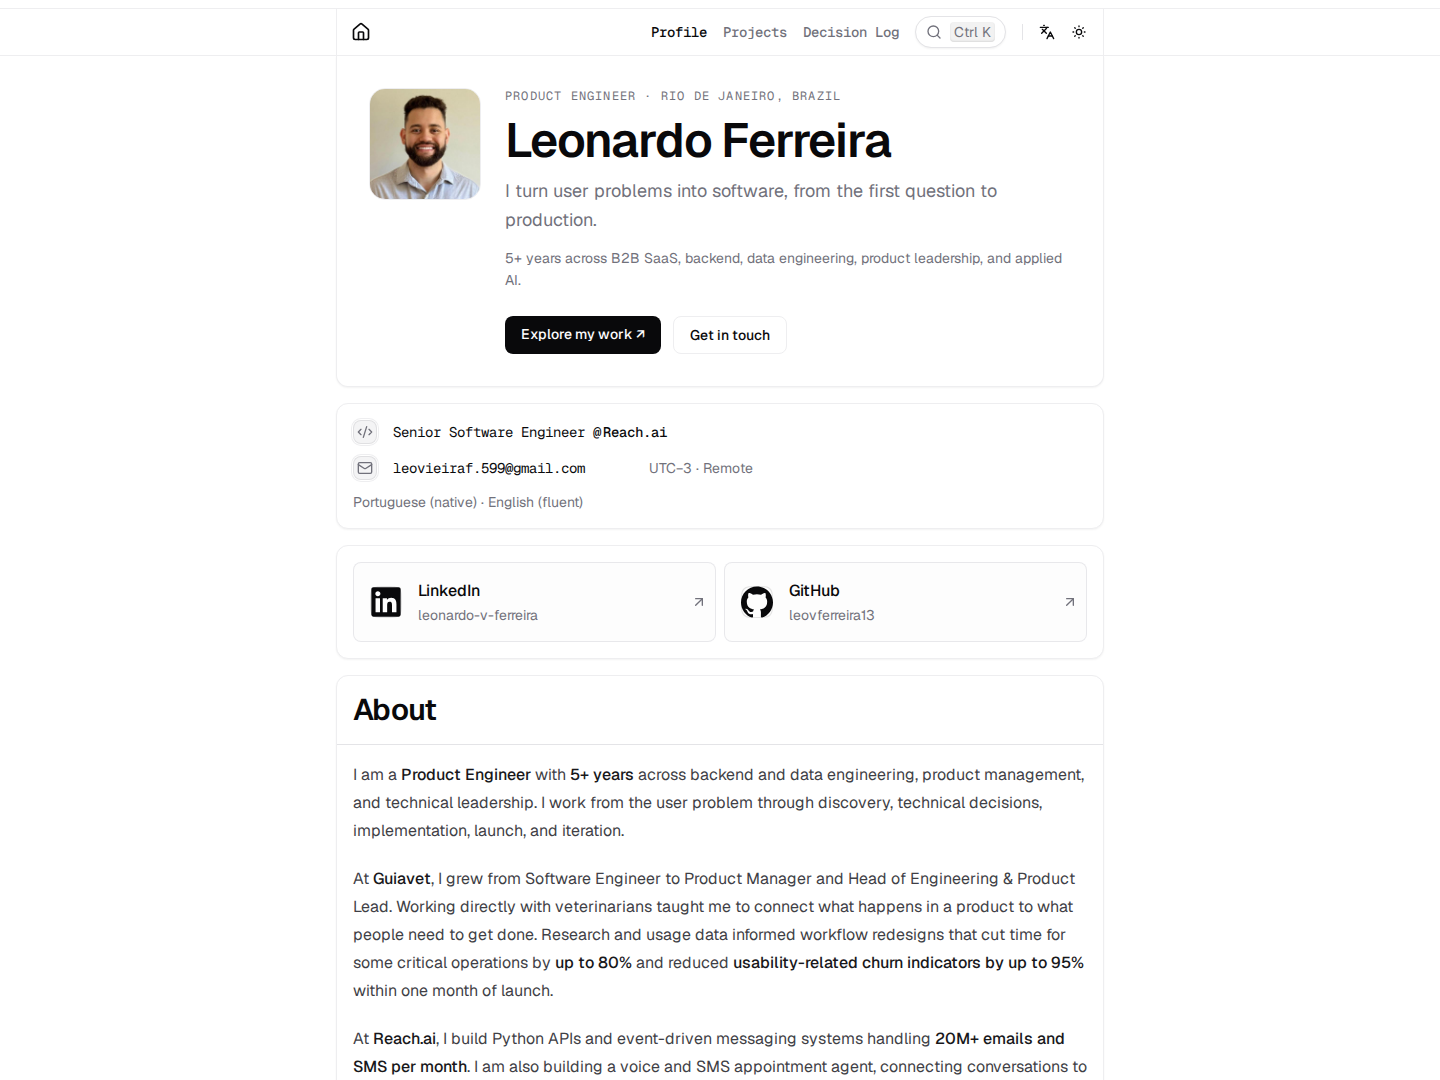
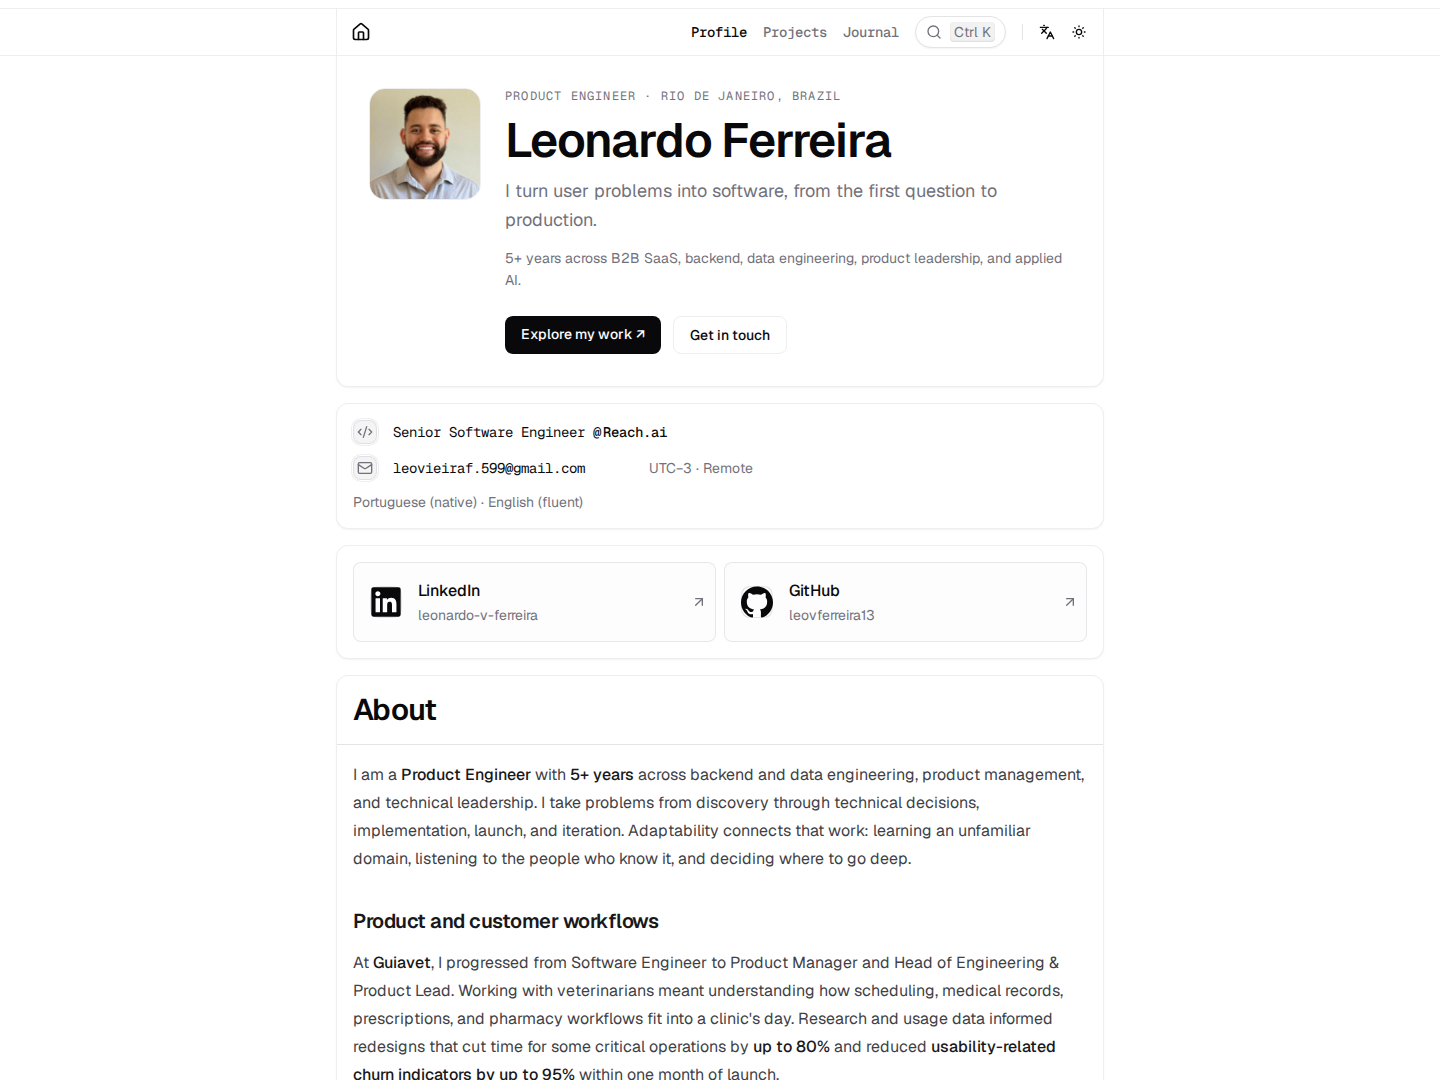
feat(portfolio): expand professional narrative and refine access controls

Changed region(s): [[0.25, 0.7333, 0.75, 1.0], [0.4688, 0.0, 0.5312, 0.0306]]

diff --git a/src/features/portfolio/data/user.ts b/src/features/portfolio/data/user.ts
@@ -23,13 +23,25 @@ export const USER: User = {
     },
   ],
   about: `
-I am a **Product Engineer** with **5+ years** across backend and data engineering, product management, and technical leadership. I work from the user problem through discovery, technical decisions, implementation, launch, and iteration.
+I am a **Product Engineer** with **5+ years** across backend and data engineering, product management, and technical leadership. I take problems from discovery through technical decisions, implementation, launch, and iteration. Adaptability connects that work: learning an unfamiliar domain, listening to the people who know it, and deciding where to go deep.
 
-At **Guiavet**, I grew from Software Engineer to Product Manager and Head of Engineering & Product Lead. Working directly with veterinarians taught me to connect what happens in a product to what people need to get done. Research and usage data informed workflow redesigns that cut time for some critical operations by **up to 80%** and reduced **usability-related churn indicators by up to 95%** within one month of launch.
+### Product and customer workflows
 
-At **Reach.ai**, I build Python APIs and event-driven messaging systems handling **20M+ emails and SMS per month**. I am also building a voice and SMS appointment agent, connecting conversations to scheduling APIs with retrieval, tool orchestration, behavioral evaluations, and observability.
+At **Guiavet**, I progressed from Software Engineer to Product Manager and Head of Engineering & Product Lead. Working with veterinarians meant understanding how scheduling, medical records, prescriptions, and pharmacy workflows fit into a clinic's day. Research and usage data informed redesigns that cut time for some critical operations by **up to 80%** and reduced **usability-related churn indicators by up to 95%** within one month of launch.
 
-**Adaptability is the thread through my work.** I enjoy learning an unfamiliar domain, understanding its constraints, and deciding what is useful to build. I bring strong backend foundations and product judgment to that process, including when the right tool is applied AI.
+I also led product expansion beyond solo practitioners to veterinarians serving other clinics and to clinics themselves, adapting packaging and workflows to each B2B segment. This combination of customer understanding, technical scoping, integrations, and end-to-end ownership is what draws me to **Forward Deployed Engineering**: working through an unfamiliar context until the solution fits the people using it.
+
+### Backend systems that support the product
+
+At **Reach.ai**, I engineer Python/FastAPI APIs and event-driven messaging flows for a multi-tenant platform processing **20M+ emails and SMS per month**, with **99.9% delivery reliability**. Queue processing improvements and Redis-backed idempotency supported **50x peak throughput capacity** while reducing duplicate-send risk. At Guiavet, I worked across Django domain modeling, PostgreSQL, asynchronous workers, and Vue.js, connecting architecture choices to daily workflows.
+
+My data engineering foundation comes from **QDOIS**, where I integrated databases, APIs, and SFTP sources through Azure Data Factory and Databricks/PySpark. That experience still shapes how I think about data models, system boundaries, and the information a product needs to make useful decisions.
+
+### Applied AI grounded in engineering
+
+I am building a **voice and SMS appointment agent** at Reach.ai with Python, LangGraph, ReAct-style orchestration, OpenAI tool calling, and retrieval over business knowledge. The agent connects multi-turn conversations to availability, booking, rescheduling, and cancellation APIs. My work includes behavioral evaluations, response guardrails, Redis-backed idempotency, and observability through LangSmith and audit logs.
+
+The agent is **in prelaunch testing**; internal voice tests reached **approximately 2 seconds median response latency**. This is a technical result from testing, with customer outcomes still to be measured after launch. I bring the same product judgment and backend discipline to AI work: understand the workflow, make integrations dependable, inspect failures, and improve against evidence.
 `,
   avatar: "/profile.jpg",
   ogImage:
@@ -48,6 +60,8 @@ At **Reach.ai**, I build Python APIs and event-driven messaging systems handling
     "Applied AI",
     "LangGraph",
     "Data Engineering",
+    "Forward Deployed Engineer",
+    "Backend Engineering",
   ],
   dateCreated: "2026-04-16",
 }

diff --git a/src/features/portfolio/data/experiences.tsx b/src/features/portfolio/data/experiences.tsx
@@ -16,9 +16,11 @@ export const EXPERIENCES: Experience[] = [
         },
         employmentType: "Contract",
         icon: <CodeXmlIcon />,
-        description: `- Engineered Python/FastAPI APIs and event-driven flows processing **20M+ SMS and emails monthly**, with **99.9% delivery reliability** and support for **50x peak throughput capacity** through queue processing and idempotency improvements.
-- Building an appointment agent for **voice and SMS**: booking, rescheduling, and cancellation through LangGraph, tool calling, retrieval over business knowledge, and scheduling APIs.
-- Designed behavioral evaluations, guardrails, Redis-backed idempotency, and observability with LangSmith and audit logs. Optimized median voice response latency to **approximately 2 seconds** in testing.`,
+        description: `- Engineer **Python/FastAPI APIs and event-driven messaging flows** for a multi-tenant SaaS platform processing **20M+ SMS and emails monthly**, with **99.9% delivery reliability**. The system connects AWS SQS, Lambda, API Gateway, Aurora/RDS, MongoDB, Redis, and messaging providers.
+- Improved queue processing and introduced **Redis-backed idempotency**, reducing duplicate-send risk and supporting **50x peak throughput capacity**.
+- Building a **multi-turn voice and SMS appointment agent** with Python, LangGraph, ReAct-style orchestration, OpenAI tool calling, and RAG over business knowledge. Integrate scheduling APIs for availability, booking, rescheduling, and cancellation.
+- Designed behavioral evaluations, guardrails against unsupported responses, and observability through **LangSmith and internal audit logs**, so conversation behavior and tool calls can be inspected and improved.
+- Optimized median voice response latency to **approximately 2 seconds in internal tests**. The agent is **in prelaunch testing**; customer adoption and operational outcomes have not yet been measured.`,
         skills: [
           "Python",
           "FastAPI",
@@ -51,7 +53,8 @@ export const EXPERIENCES: Experience[] = [
         icon: <CodeXmlIcon />,
         description: `- Led five engineers, owning prioritization, technical decisions, and delivery as the B2B veterinary SaaS product matured.
 - Owned technical continuity of the platform while reducing infrastructure and operational costs through automation and lean delivery.
-- Led major improvements to the Health Records module: integrated drug reference data, built a pharmacy dispensing portal with external validation, customizable prescription templates (faster daily record creation), and optimized multi-page PDF generation (large performance improvement in rendering time).
+- Led major improvements to the Health Records module: integrated drug reference data, built a pharmacy dispensing portal with external validation, customizable prescription templates (faster daily record creation), and customizable document workflows.
+- Re-architected multi-page PDF generation and asynchronous processing at Guiavet, reducing generation time from **approximately 90 to 15 seconds** (about **83%**), improving a document workflow used by veterinary teams.
 - Delivered end-to-end product changes across backend (Python/Django), frontend (Vue.js), and AWS operations while coordinating with senior engineers under Agile practices.`,
         skills: [
           "Python",

diff --git a/scripts/check-i18n.test.ts b/scripts/check-i18n.test.ts
@@ -1,7 +1,10 @@
 import assert from "node:assert/strict"
 import { test } from "node:test"
 
+import { GET as llmsIndex } from "../src/app/(llms)/llms.txt/route"
 import { GET as vcard } from "../src/app/vcard/route"
+import { TECH_STACK_GROUP_ORDER } from "../src/features/portfolio/data/tech-stack"
+import { formatPositionAsMarkdown } from "../src/features/portfolio/lib/format-position-markdown"
 import {
   activeNavigation,
   formatPeriod,
@@ -56,10 +59,7 @@ test("language links preserve section, filters and anchors without duplicate pre
     "/de/journal?project=sports-data-visualizer"
   )
   assert.equal(localizePath("/journal/a-note", "nl"), "/nl/journal/a-note")
-  assert.equal(
-    localizePath("/br/decisions/a-note", "de"),
-    "/de/journal/a-note"
-  )
+  assert.equal(localizePath("/br/decisions/a-note", "de"), "/de/journal/a-note")
   assert.equal(localizePath("/", "en"), "/en")
   assert.equal(
     localizePath("https://github.com/leovferreira13", "br"),
@@ -69,10 +69,7 @@ test("language links preserve section, filters and anchors without duplicate pre
 test("profile navigation is not active on every localized subpage", () => {
   assert.equal(activeNavigation("/br/projects", "/br"), false)
   assert.equal(activeNavigation("/br", "/br"), true)
-  assert.equal(
-    activeNavigation("/de/journal/some-note", "/de/journal"),
-    true
-  )
+  assert.equal(activeNavigation("/de/journal/some-note", "/de/journal"), true)
   assert.equal(activeNavigation("/en/projects-other", "/en/projects"), false)
 })
 test("experience dates have localized months and preserve year-only education dates", () => {
@@ -88,4 +85,40 @@ test("vCard embeds the local portrait and canonical contact email", async () => 
   const text = await response.text()
   assert.match(text, /PHOTO;ENCODING=b;TYPE=JPEG:/i)
   assert.match(text, /leovieiraf\.599@gmail\.com/)
+})
+
+test("capability explanations cover each group in every language", () => {
+  for (const locale of locales) {
+    const content = localizedContent(locale)
+    assert.deepEqual(
+      Object.keys(content.capabilityDescriptions),
+      TECH_STACK_GROUP_ORDER
+    )
+    for (const description of Object.values(content.capabilityDescriptions))
+      assert.ok(description.length > 100)
+    assert.match(content.user.about, /Forward Deployed Engineering/)
+    assert.match(content.user.about, /LangSmith/)
+  }
+})
+
+test("machine index is inline UTF-8 text with real Markdown lines and current links", async () => {
+  const response = llmsIndex()
+  assert.equal(response.status, 200)
+  assert.equal(
+    response.headers.get("Content-Type"),
+    "text/plain; charset=utf-8"
+  )
+  assert.equal(response.headers.get("Content-Disposition"), "inline")
+  assert.equal(response.headers.get("X-Content-Type-Options"), "nosniff")
+  const text = await response.text()
+  assert.match(text, /^# Leonardo Ferreira\n\n> /)
+  assert.match(text, /\n## Professional profile\n/)
+  assert.match(text, /\/llms-full\.txt/)
+  assert.match(text, /\/en\/journal/)
+  assert.doesNotMatch(text, /\\n/)
+  const position = localizedContent("en").experiences[0].positions[0]
+  assert.match(
+    formatPositionAsMarkdown(position, "Reach.ai"),
+    /prelaunch testing/
+  )
 })

diff --git a/src/components/language-selector.tsx b/src/components/language-selector.tsx
@@ -2,8 +2,15 @@
 import { CheckIcon, LanguagesIcon, LoaderCircleIcon } from "lucide-react"
 import { usePathname, useSearchParams } from "next/navigation"
 import { useEffect, useState } from "react"
+import { useHotkeys } from "react-hotkeys-hook"
 
+import {
+  Tooltip,
+  TooltipContent,
+  TooltipTrigger,
+} from "@/components/base/ui/tooltip"
 import { Button } from "@/components/ui/button"
+import { Kbd } from "@/components/ui/kbd"
 import {
   Popover,
   PopoverContent,
@@ -22,6 +29,9 @@ export function LanguageSelector() {
     params = useSearchParams()
   const [open, setOpen] = useState(false),
     [pending, setPending] = useState(false)
+  useHotkeys("shift+l", () => setOpen((value) => !value), {
+    preventDefault: true,
+  })
   useEffect(() => {
     const reset = () => setPending(false)
     window.addEventListener("pageshow", reset)
@@ -29,21 +39,33 @@ export function LanguageSelector() {
   }, [])
   return (
     <Popover open={open} onOpenChange={setOpen}>
-      <PopoverTrigger asChild>
-        <Button
-          variant="ghost"
-          size="icon-sm"
-          aria-label={t.language}
-          aria-busy={pending}
-          title={t.language}
-        >
-          {pending ? (
-            <LoaderCircleIcon className="size-4 animate-spin" />
-          ) : (
-            <LanguagesIcon className="size-4" />
-          )}
-        </Button>
-      </PopoverTrigger>
+      <Tooltip>
+        <PopoverTrigger asChild>
+          <TooltipTrigger
+            render={
+              <Button
+                variant="ghost"
+                size="icon-sm"
+                aria-label={t.language}
+                aria-busy={pending}
+                aria-keyshortcuts="Shift+L"
+              >
+                {pending ? (
+                  <LoaderCircleIcon className="size-4 animate-spin" />
+                ) : (
+                  <LanguagesIcon className="size-4" />
+                )}
+              </Button>
+            }
+          />
+        </PopoverTrigger>
+        <TooltipContent className="pr-2 pl-3">
+          <div className="flex items-center gap-3">
+            {t.language}
+            <Kbd>⇧ L</Kbd>
+          </div>
+        </TooltipContent>
+      </Tooltip>
       <PopoverContent align="end" className="w-44 p-1">
         <nav aria-label={t.language}>
           {locales.map((language) => {

diff --git a/src/app/(llms)/llms.txt/route.ts b/src/app/(llms)/llms.txt/route.ts
@@ -4,7 +4,7 @@ import { USER } from "@/features/portfolio/data/user"
 export const dynamic = "force-static"
 export function GET() {
   return new Response(
-    `# ${USER.displayName}\n\n> ${USER.bio}\n\n- [About](${SITE_INFO.url}/about.md)\n- [Experience](${SITE_INFO.url}/experience.md)\n- [Education](${SITE_INFO.url}/education.md)\n- [Projects](${SITE_INFO.url}/projects.md)\n- [Journal](${SITE_INFO.url}/en/journal)\n\n## Published journal entries\n\n${
+    `# ${USER.displayName}\n\n> ${USER.bio}\n\n## Professional profile\n\n- [Full profile](${SITE_INFO.url}/llms-full.txt): Complete English profile, experience, capabilities, projects, and publications.\n- [About](${SITE_INFO.url}/about.md)\n- [Experience](${SITE_INFO.url}/experience.md)\n- [Education](${SITE_INFO.url}/education.md)\n- [Projects](${SITE_INFO.url}/projects.md)\n- [Journal](${SITE_INFO.url}/en/journal)\n\n## Published journal entries\n\n${
       getJournalEntries()
         .map(
           (entry) =>
@@ -12,6 +12,12 @@ export function GET() {
         )
         .join("\n") || "No published entries yet."
     }`,
-    { headers: { "Content-Type": "text/markdown; charset=utf-8" } }
+    {
+      headers: {
+        "Content-Type": "text/plain; charset=utf-8",
+        "Content-Disposition": "inline",
+        "X-Content-Type-Options": "nosniff",
+      },
+    }
   )
 }

diff --git a/src/features/portfolio/data/projects.ts b/src/features/portfolio/data/projects.ts
@@ -13,7 +13,7 @@ export const PROJECTS: Project[] = [
     summary:
       "An interactive football analytics app that makes expected goals tangible: move a shot, inspect its features, and explore the model behind the estimate.",
     description:
-      "Built end to end with a reproducible StatsBomb Open Data pipeline, XGBoost training and evaluation, and browser inference. The five-language playground exposes eight model features alongside the pitch, with methodology and results available in the app. A portfolio project connecting data engineering, model validation, and an interface people can explore.",
+      "The interactive pitch lets visitors change shot conditions and inspect eight model features alongside an expected-goals estimate. I connected a reproducible StatsBomb Open Data pipeline to XGBoost training and evaluation, then brought inference into the browser with a Next.js/React interface.\n\nThe playground is available in five languages and includes methodology and evaluation results. It brings my data, applied ML, backend-to-interface integration, and product work into one public project: visitors can explore what the model does, while the repository exposes how the result was built.",
     skills: [
       "Next.js",
       "React",

diff --git a/src/features/journal/components/journal-preview.tsx b/src/features/journal/components/journal-preview.tsx
@@ -1,5 +1,7 @@
+import { ArrowRightIcon } from "lucide-react"
 import Link from "next/link"
 
+import { Button } from "@/components/ui/button"
 import {
   Panel,
   PanelContent,
@@ -27,12 +29,12 @@ export async function JournalPreview() {
             {t.emptyPreview}
           </p>
         )}
-        <Link
-          href={localizePath("/journal", locale)}
-          className="mt-4 inline-block text-sm underline underline-offset-4"
-        >
-          {t.visitJournal}
-        </Link>
+        <Button variant="outline" size="sm" asChild className="mt-4">
+          <Link href={localizePath("/journal", locale)}>
+            {t.visitJournal}
+            <ArrowRightIcon aria-hidden="true" />
+          </Link>
+        </Button>
       </PanelContent>
     </Panel>
   )

diff --git a/src/features/portfolio/components/projects/project-card.tsx b/src/features/portfolio/components/projects/project-card.tsx
@@ -33,9 +33,14 @@ export async function ProjectCard({ project }: { project: Project }) {
           {project.title}
         </h2>
         <p className="leading-relaxed">{project.summary}</p>
-        <p className="text-sm leading-relaxed text-muted-foreground">
-          {project.description}
-        </p>
+        {project.description?.split("\n\n").map((paragraph) => (
+          <p
+            key={paragraph}
+            className="text-sm leading-relaxed text-muted-foreground"
+          >
+            {paragraph}
+          </p>
+        ))}
         <ul className="flex flex-wrap gap-2" aria-label={t.projectTech}>
           {project.skills.map((skill) => (
             <li className="rounded-md bg-muted px-2 py-1 text-xs" key={skill}>

diff --git a/src/features/portfolio/data/tech-stack.ts b/src/features/portfolio/data/tech-stack.ts
@@ -1,3 +1,5 @@
+import en from "@/i18n/messages/en.json"
+
 import type { TechStack, TechStackSkillGroup } from "../types/tech-stack"
 export const TECH_STACK_GROUP_ORDER: readonly TechStackSkillGroup[] = [
   "Product & delivery",
@@ -176,6 +178,6 @@ export const TECH_STACK_GROUPS = TECH_STACK_GROUP_ORDER.map((title) => ({
 export function formatTechStackForMarkdown(): string {
   return TECH_STACK_GROUPS.map(
     (group) =>
-      `### ${group.title}\n\n${group.items.map((item) => `- [${item.title}](${item.href})`).join("\n")}`
+      `### ${group.title}\n\n${en.capabilityDescriptions[group.title]}\n\n${group.items.map((item) => `- [${item.title}](${item.href})`).join("\n")}`
   ).join("\n\n")
 }

diff --git a/src/features/portfolio/components/tech-stack.tsx b/src/features/portfolio/components/tech-stack.tsx
@@ -18,6 +18,9 @@ export async function TechStack() {
             <h3 className="mb-3 text-sm font-semibold">
               {content.skill(group.title)}
             </h3>
+            <p className="mb-3 text-sm leading-relaxed text-muted-foreground">
+              {content.capabilityDescriptions[group.title]}
+            </p>
             <ul className="flex flex-wrap gap-2">
               {group.items.map((tech) => (
                 <li key={tech.key}>

diff --git a/src/app/(llms)/llms-full.txt/route.ts b/src/app/(llms)/llms-full.txt/route.ts
@@ -102,7 +102,9 @@ export const dynamic = "force-static"
 export async function GET() {
   return new Response(await getContent(), {
     headers: {
-      "Content-Type": "text/markdown;charset=utf-8",
+      "Content-Type": "text/plain; charset=utf-8",
+      "Content-Disposition": "inline",
+      "X-Content-Type-Options": "nosniff",
     },
   })
 }

diff --git a/src/app/layout.tsx b/src/app/layout.tsx
@@ -97,6 +97,7 @@ export default async function RootLayout({
       suppressHydrationWarning
     >
       <head>
+        <link rel="describedby" href="/llms.txt" type="text/plain" />
         <script
           type="text/javascript"
           dangerouslySetInnerHTML={{ __html: darkModeScript }}
